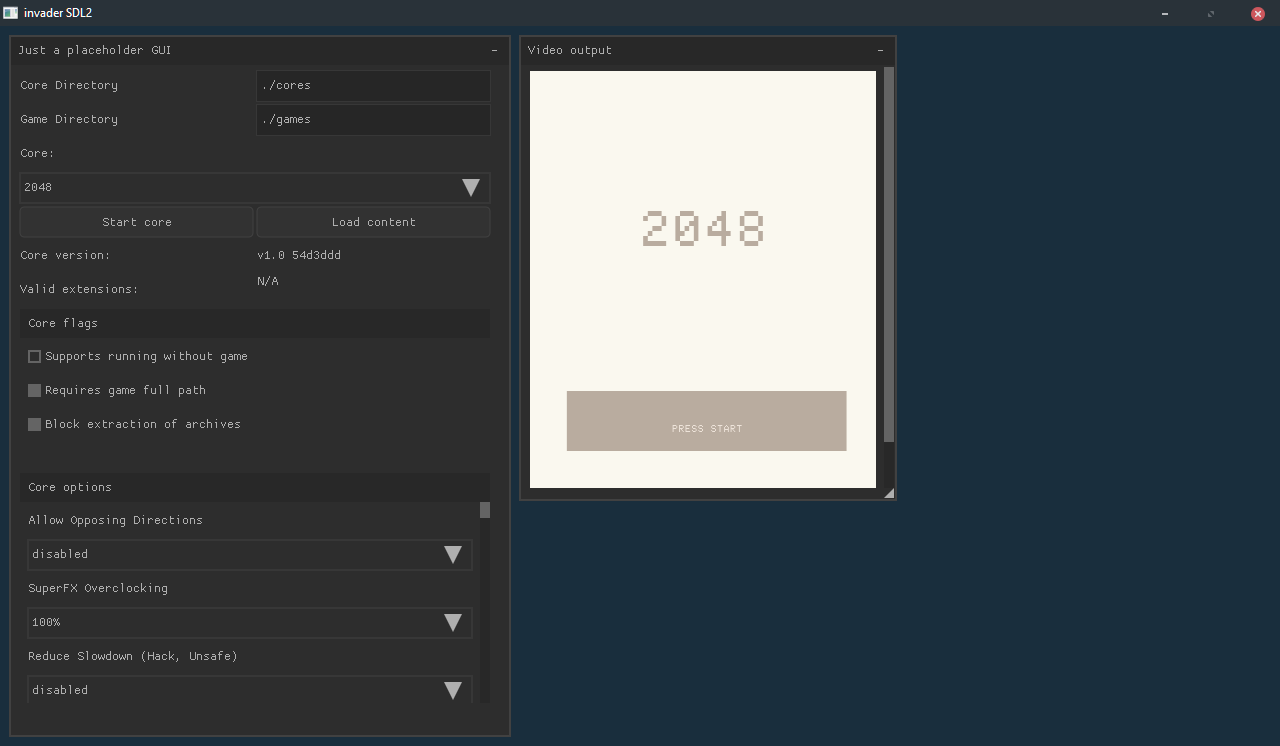
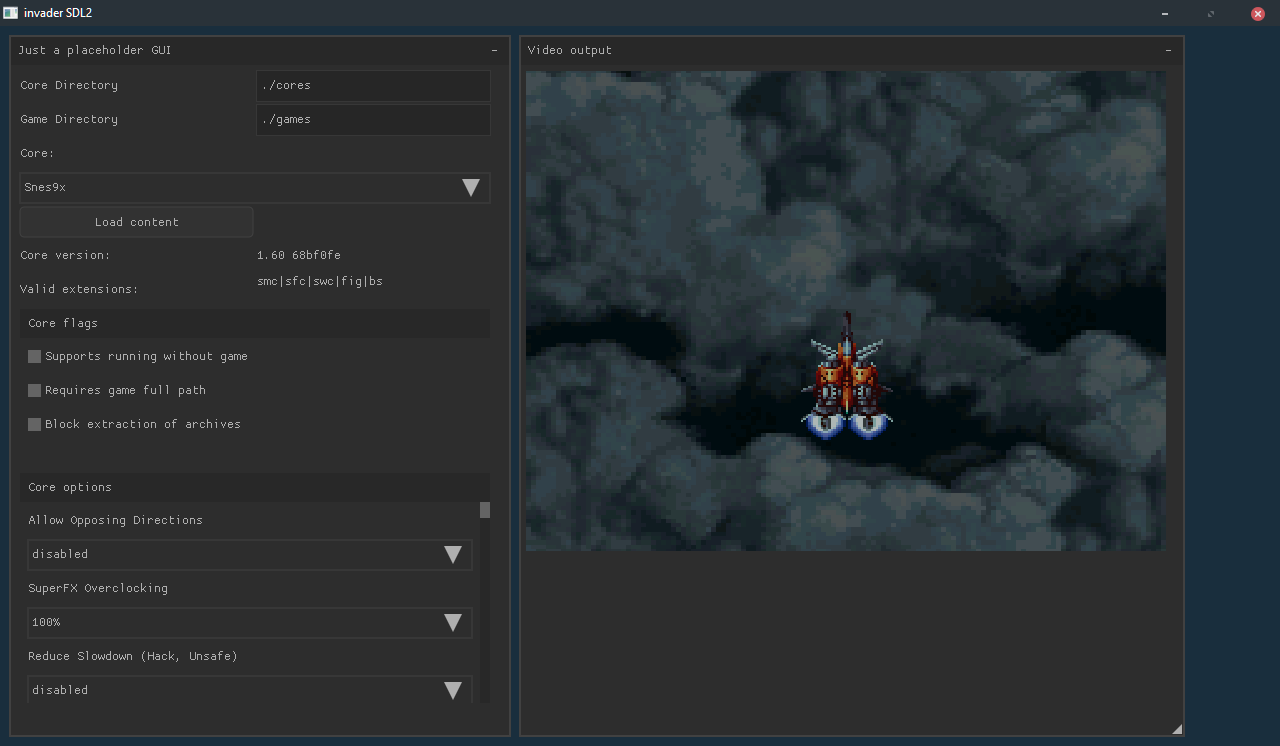
update docs

diff --git a/src/frontend/invader.c b/src/frontend/invader.c
@@ -151,7 +151,7 @@ void gui_render(struct nk_context *ctx)
       if (nk_button_label(ctx, "Load content"))
       {
          core_load(core_info_list[current_core].file_name, &current_core_info, core_options, false);
-         if(core_load_game("rom.gb"))
+         if(core_load_game("rom.sfc"))
          {
             running = true;
          }

diff --git a/CONTRIBUTING.md b/CONTRIBUTING.md
@@ -1,17 +1,21 @@
 # Contributing
 
-When contributing to this repository, please send a merge request with the change you
-wish to make. 
+If you are a developer and you wish to contribute, please read this document.
 
-Please note we have a code of conduct, please follow it in all your interactions with the project.
+## Submitting a bug report
 
-## Merge Request Process
+Make sure the bug is actually related to this project and not related to a libretro core implementation.
 
-1. Ensure any install or build dependencies are removed before the end of the layer when doing a 
-   build.
+## Proposing changes
+
+Contributions are only accepted via merge request. The process is simple, Fork invader, make any changes you think will move the project forward, and open a merge request.
+
+Follow these guidelines:
+
+1. Ensure any install or build dependencies are removed before sending a merge request
 2. Increase the version numbers in any examples files and the CHANGELOG.md to the new version that this
    change would represent. The versioning scheme we use is [SemVer](http://semver.org/).
 
 ## Attribution
 
-All contributions to this project must be permisively licensed.
+All contributions to this project must be permisively licensed under the MIT license.
